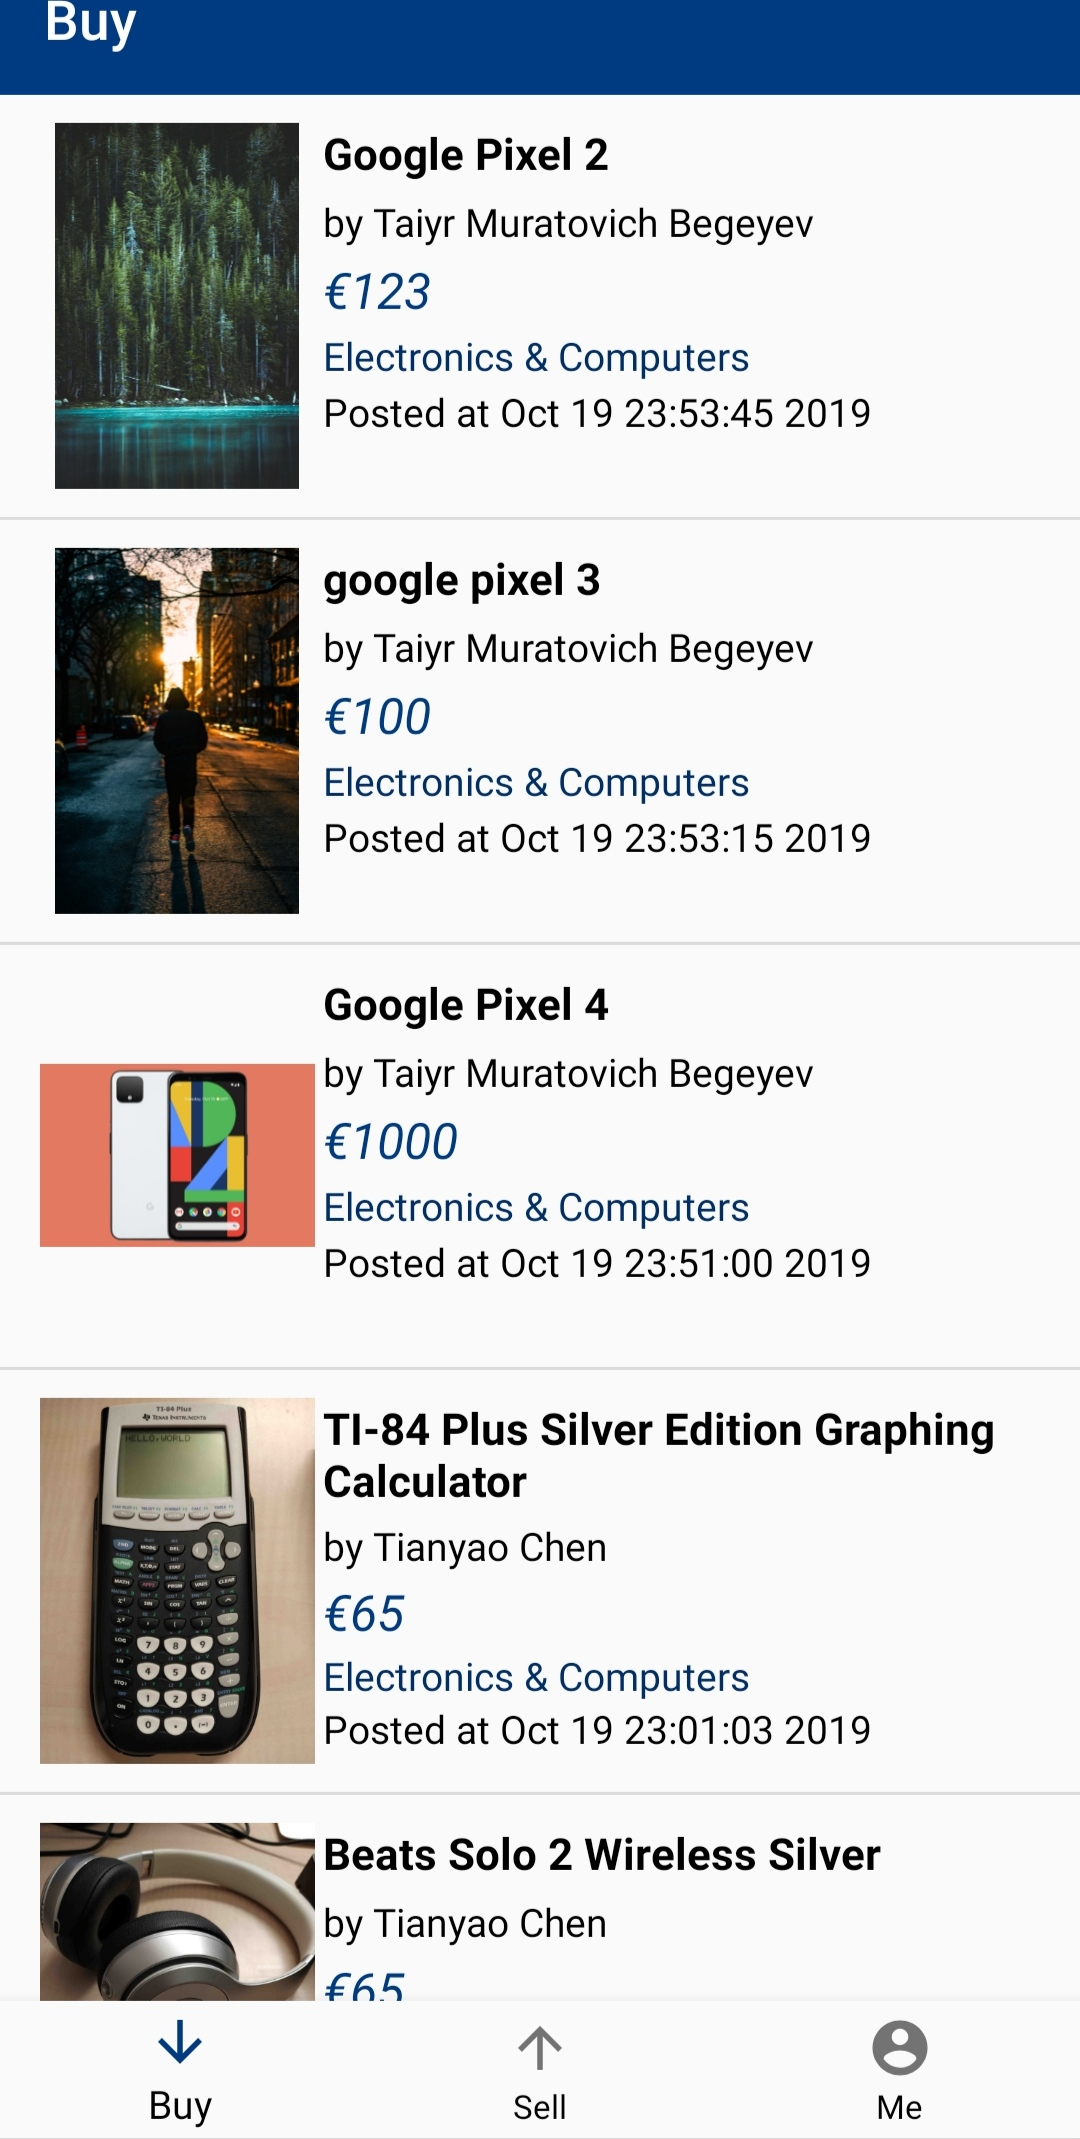
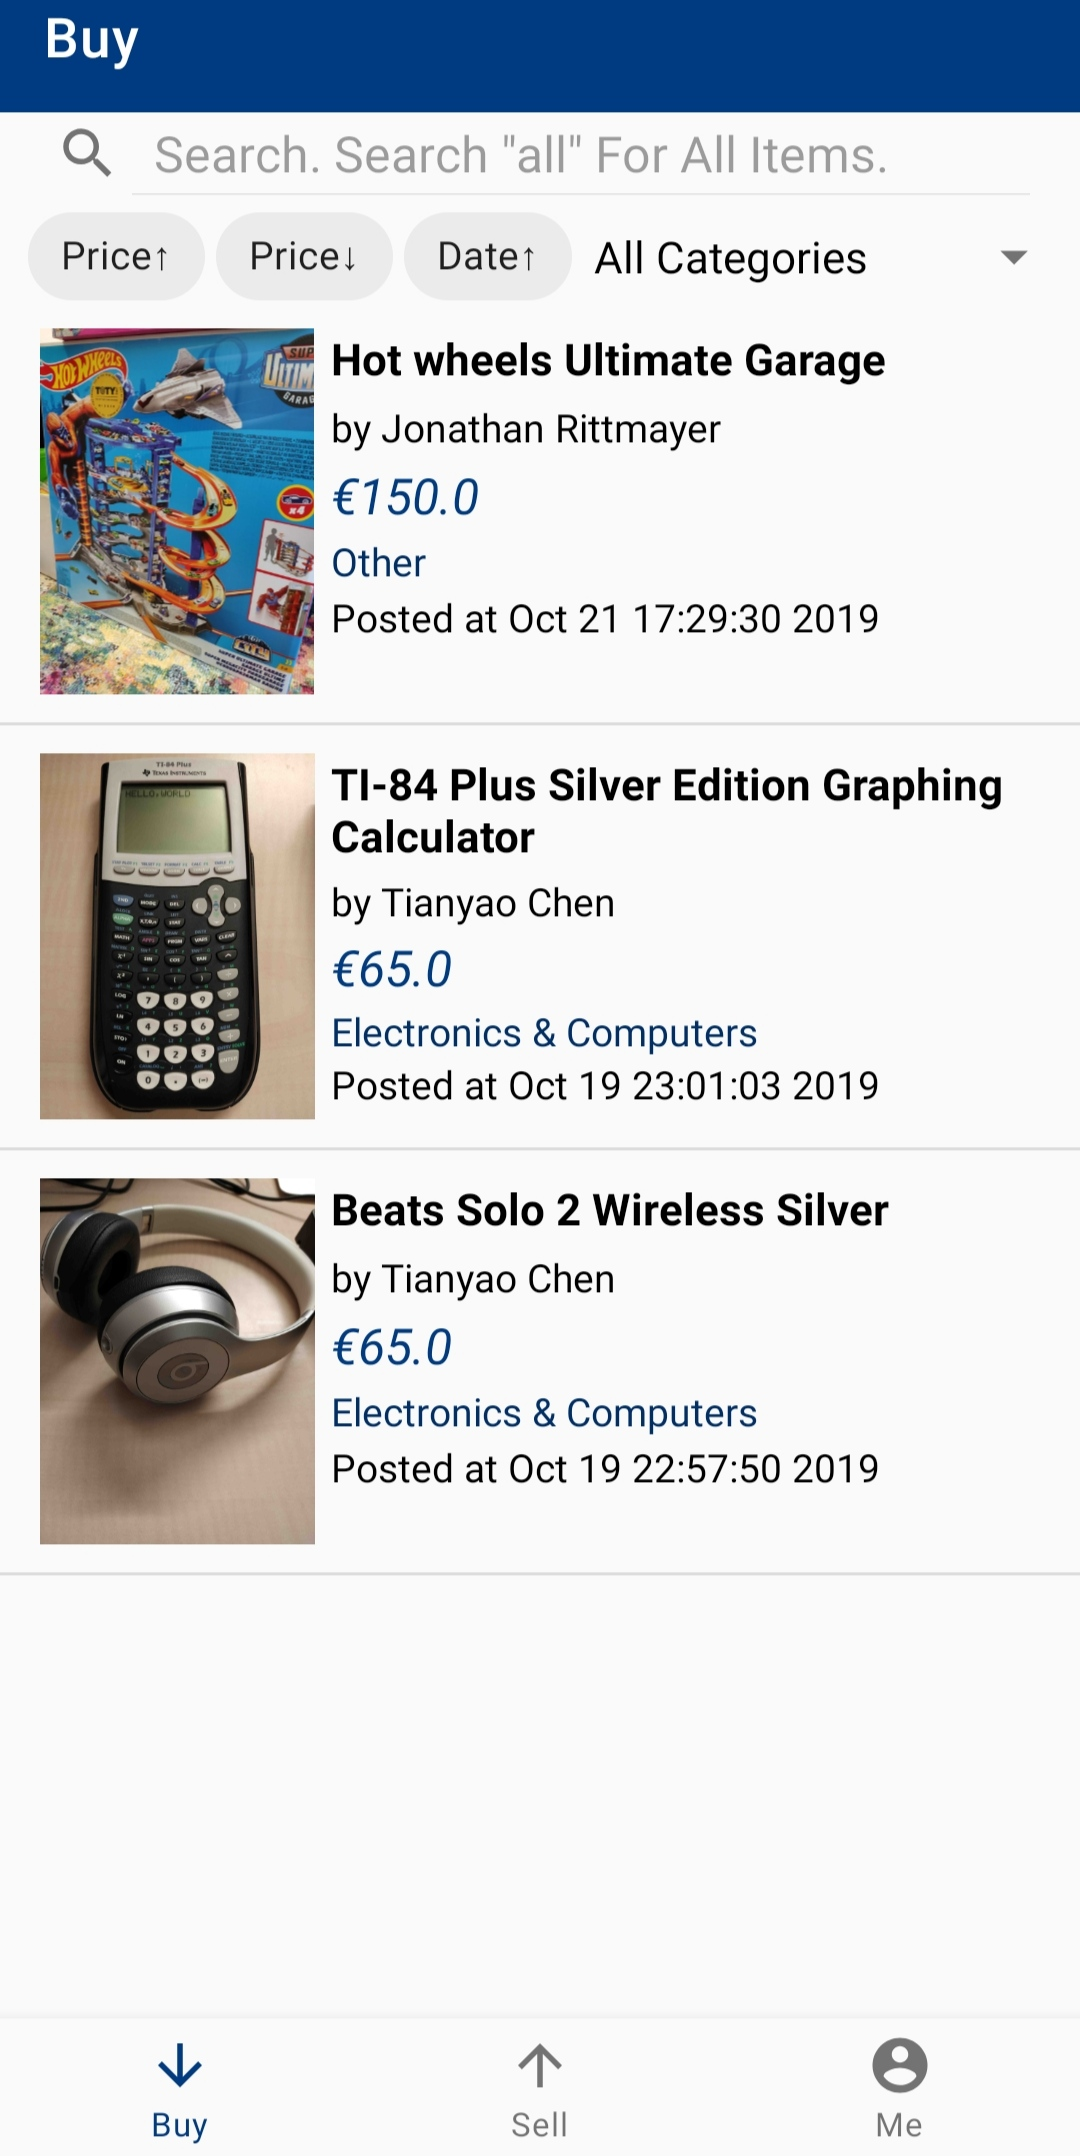
updated README

Changed region(s): [[0.0, 0.0, 1.0, 1.0], [0.7944, 0.9565, 0.8556, 1.0], [0.4583, 0.9565, 0.5194, 1.0]]

diff --git a/README.md b/README.md
@@ -11,13 +11,17 @@
 
 ## About
 
-JStore: A Marketplace for Jacobs University Bremen. This is the Android app. The [Web version](jstore.xyz) is also developed by
+The Android app for JStore: A Marketplace for Jacobs University Bremen. The [Web version](jstore.xyz) is also developed by
 my friend [Taiyr Begeyev](https://github.com/taiyrbegeyev). The iOS app
-will be developed later.
+will be developed soon.
 
 ## Current Status
 
-You can get it already on [Google Play](https://play.google.com/store/apps/details?id=com.tillchen.jstore) :tada:! I'm almost finishing the app. Now I'm working on searching, filtering, and notifications.
+You can get it on Google Play!
+
+[<img src="images/google-play-badge.png" alt="google play icon" width="200">](https://play.google.com/store/apps/details?id=com.tillchen.jstore)
+
+I'm almost finishing the app. Now I'm working on notifications.
 
 ## Tech Stack
 
@@ -44,7 +48,8 @@ title, category, condition, description, price, and preferred payment options.
 * Changing user info in the Me Section.
 * Checking out your active posts and sold items in the Me Section.
 * Marking your posts as sold or deleting them directly.
-* Filter by price (up or down), date (up or down), and categories.
+* Filtering by price (up or down), date (up or down), and categories.
+* Simple searching for titles.
 
 ## Miscellaneous
 
@@ -56,4 +61,4 @@ Special thanks to:
 
 * Taiyr Begeyev for collaborating on the database and storage design, terms and conditions, privacy policy, etc..
 * Zeyar Oo for designing the icon.
-* Hamza Hayak for finding critical bugs. 
+* Hamza Hayak for finding critical bugs.
